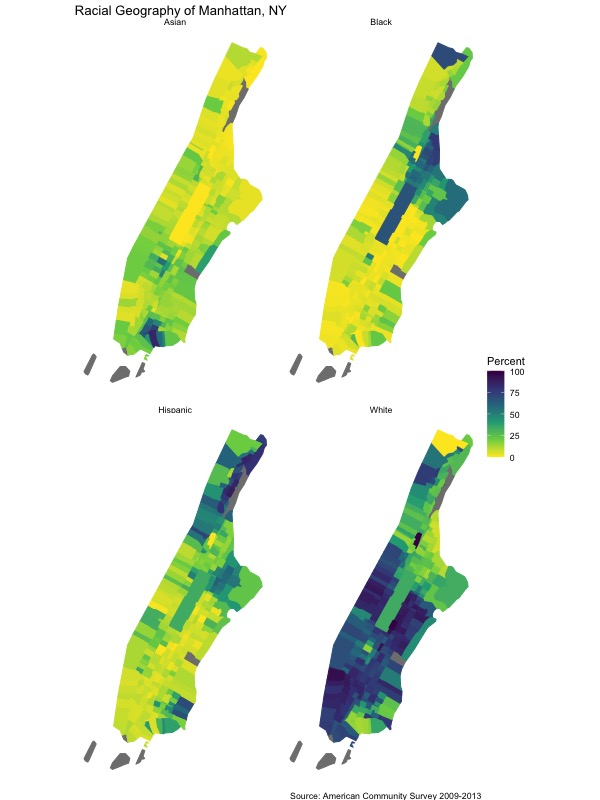
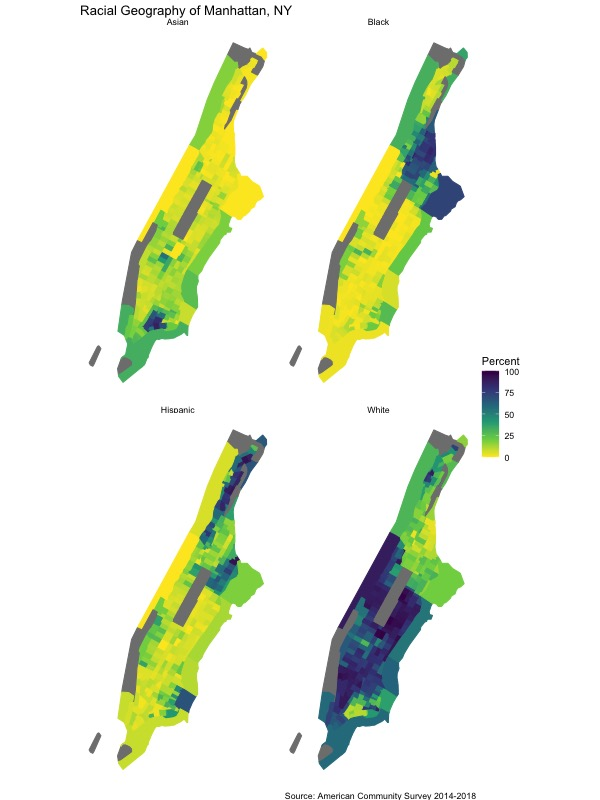
update race readme

diff --git a/race/README.md b/race/README.md
@@ -1,0 +1,8 @@
+## [race](https://github.com/CinnyLin/NYCRestaurantData/tree/master/race)
+
+This folder shows the first draft of mapping racial distribution data. The results are 2009-2013 and 2014-2018 racial distribution in Manhattan based on census data.
+
+You can find the [source code here](https://github.com/CinnyLin/NYCRestaurantData/blob/master/race/NYCRace.Rmd).
+
+![2009-2013](https://github.com/CinnyLin/NYCRestaurantData/blob/master/race/NYCRace_2009_2013.jpg)
+![2014-2018](https://github.com/CinnyLin/NYCRestaurantData/blob/master/race/NYCRace_2014_2018.jpg)

diff --git a/README.md b/README.md
@@ -36,7 +36,7 @@ Reading from various sources to support insights drawn by data.
 
 Using GIS and d3 to map resturant data based on nationality and gender, and visualize the final results with d3.
 
-**Related folders**: [mapping](https://github.com/CinnyLin/NYCRestaurantData/tree/master/mapping)
+**Related folders**: [mapping](https://github.com/CinnyLin/NYCRestaurantData/tree/master/mapping), [race](https://github.com/CinnyLin/NYCRestaurantData/tree/master/race)
 
 ## Notes
 
